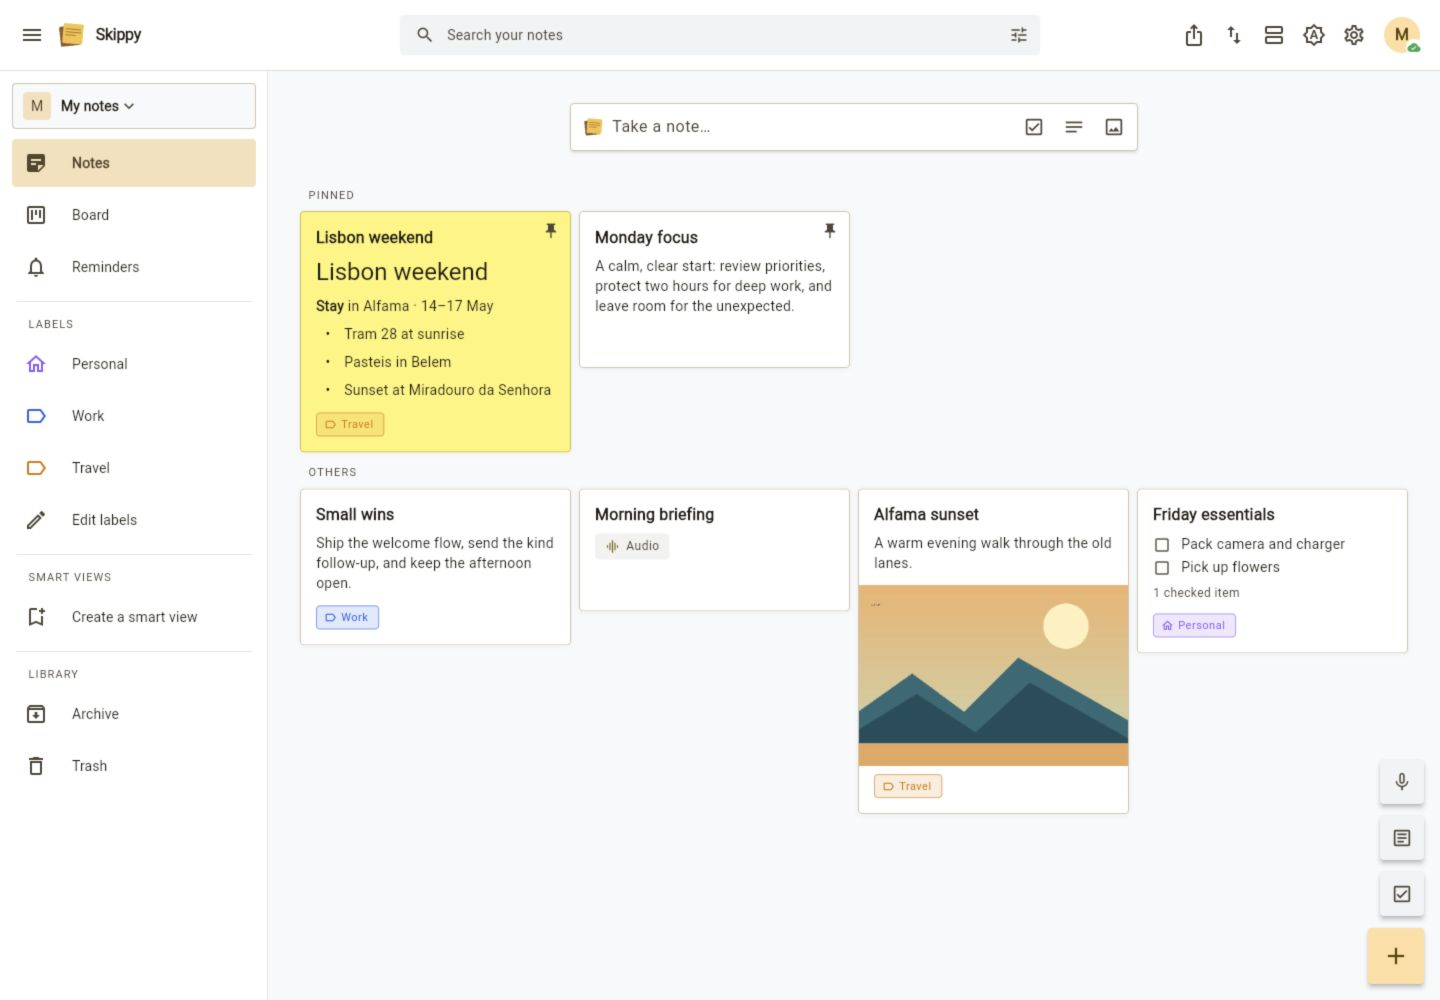
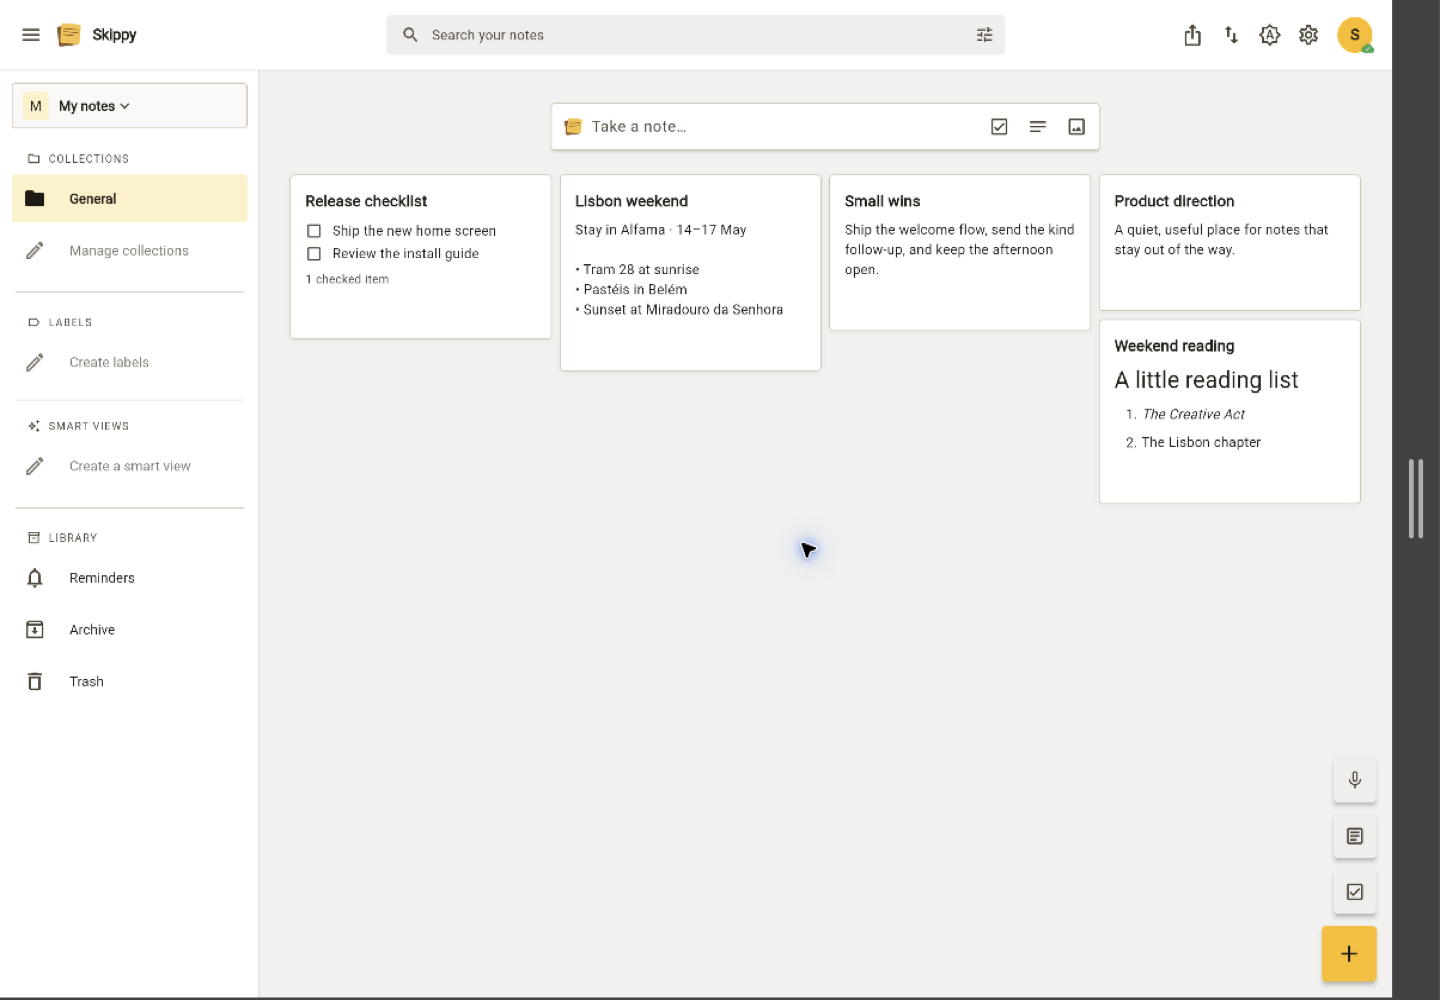
Polish documentation site navigation

diff --git a/mkdocs-material/overrides/partials/header.html b/mkdocs-material/overrides/partials/header.html
@@ -1,0 +1,82 @@
+{% set class = "md-header" %}
+{% if "navigation.tabs.sticky" in features %}
+  {% set class = class ~ " md-header--shadow md-header--lifted" %}
+{% elif "navigation.tabs" not in features %}
+  {% set class = class ~ " md-header--shadow" %}
+{% endif %}
+
+<header class="{{ class }}" data-md-component="header">
+  <nav class="md-header__inner md-grid" aria-label="{{ lang.t('header') }}">
+    <a
+      href="{{ config.extra.homepage | d(nav.homepage.url, true) | url }}"
+      title="{{ config.site_name | e }}"
+      class="md-header__button md-logo"
+      aria-label="{{ config.site_name }}"
+      data-md-component="logo"
+    >
+      {% include "partials/logo.html" %}
+    </a>
+    <label class="md-header__button md-icon" for="__drawer">
+      {% set icon = config.theme.icon.menu or "material/menu" %}
+      {% include ".icons/" ~ icon ~ ".svg" %}
+    </label>
+    <div class="md-header__title" data-md-component="header-title">
+      <div class="md-header__ellipsis">
+        <div class="md-header__topic">
+          <span class="md-ellipsis">{{ config.site_name }}</span>
+        </div>
+        <div class="md-header__topic" data-md-component="header-topic">
+          <span class="md-ellipsis">
+            {% if page.meta and page.meta.title %}
+              {{ page.meta.title }}
+            {% else %}
+              {{ page.title }}
+            {% endif %}
+          </span>
+        </div>
+      </div>
+    </div>
+    {% if config.theme.palette %}
+      {% if not config.theme.palette is mapping %}
+        {% include "partials/palette.html" %}
+      {% endif %}
+    {% endif %}
+    {% if not config.theme.palette is mapping %}
+      {% include "partials/javascripts/palette.html" %}
+    {% endif %}
+    {% if config.extra.alternate %}
+      {% include "partials/alternate.html" %}
+    {% endif %}
+    {% if "material/search" in config.plugins %}
+      {% set search = config.plugins["material/search"] | attr("config") %}
+      {% if search.enabled %}
+        <label class="md-header__button md-icon" for="__search">
+          {% set icon = config.theme.icon.search or "material/magnify" %}
+          {% include ".icons/" ~ icon ~ ".svg" %}
+        </label>
+        {% include "partials/search.html" %}
+      {% endif %}
+    {% endif %}
+    <a
+      href="{{ config.extra.app_url }}"
+      title="Open Skippy"
+      class="md-header__button md-icon"
+      aria-label="Open Skippy"
+    >
+      {% include ".icons/material/open-in-new.svg" %}
+    </a>
+    <a
+      href="{{ config.extra.github_url }}"
+      title="GitHub"
+      class="md-header__button md-icon"
+      aria-label="GitHub"
+    >
+      {% include ".icons/fontawesome/brands/github.svg" %}
+    </a>
+  </nav>
+  {% if "navigation.tabs.sticky" in features %}
+    {% if "navigation.tabs" in features %}
+      {% include "partials/tabs.html" %}
+    {% endif %}
+  {% endif %}
+</header>

diff --git a/README.md b/README.md
@@ -12,3 +12,9 @@ docker compose up -d docs
 
 Open <http://localhost:8123>. The app itself remains available at
 <http://localhost:8787>.
+
+## Screenshots
+
+![Masonry notes](mkdocs-material/docs/assets/screenshots/skippy-desktop-masonry.png)
+
+![Kanban board](mkdocs-material/docs/assets/screenshots/skippy-desktop-board-features.png)

diff --git a/mkdocs-material/docs/index.md b/mkdocs-material/docs/index.md
@@ -19,8 +19,6 @@ Windows. It works offline and syncs when a device reconnects.
 
 - ![Desktop board](assets/screenshots/skippy-desktop-board-features.png)
 
-- ![Mobile notes](assets/screenshots/skippy-android-home-mockup.png)
-
 </div>
 
 !!! note "Mobile availability"
